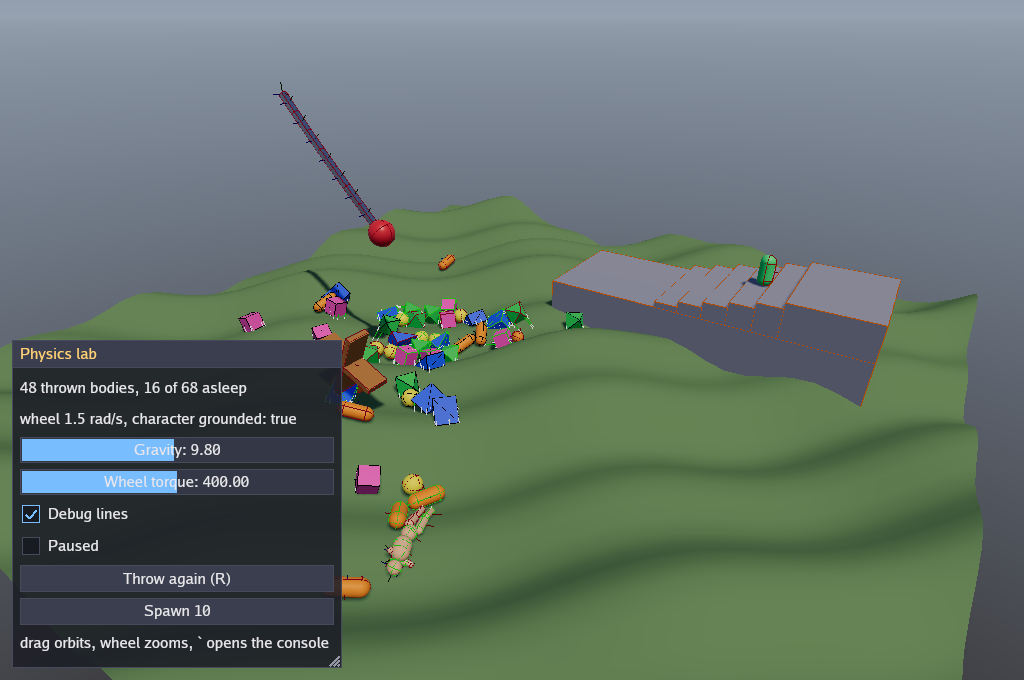
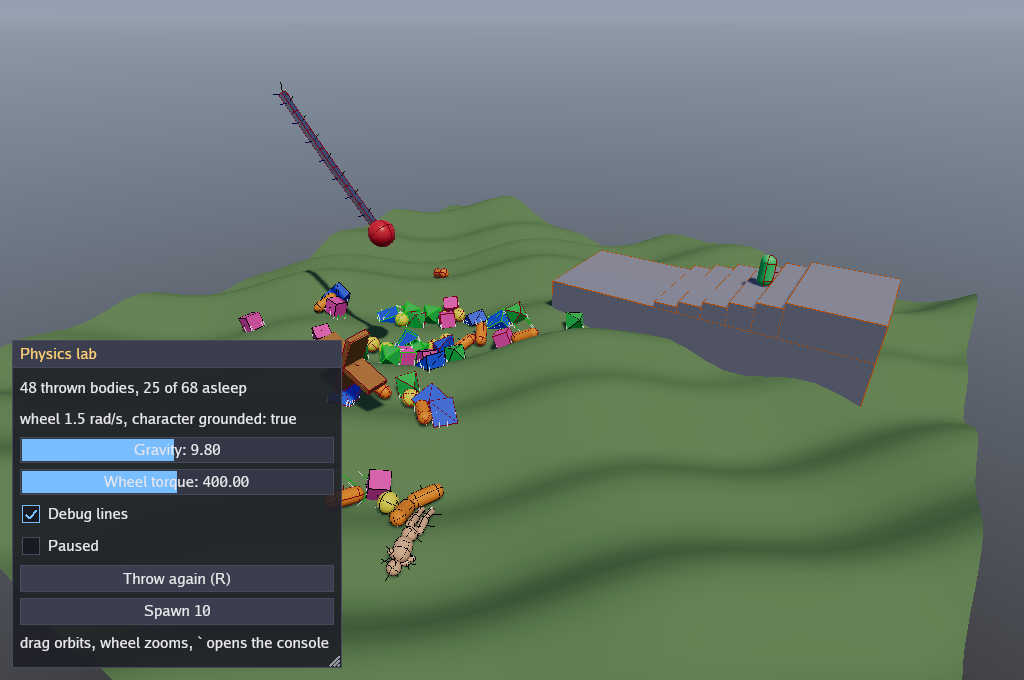
Make refresh_queries safe with later adds; size the softbody window
refresh_queries called detect_collisions, which consumed the modified
body list the physics pipeline needs to give new bodies an island, so a
later step panicked. It now runs the pipeline with a zero time step.

diff --git a/crates/yowie-phys/src/d2/world.rs b/crates/yowie-phys/src/d2/world.rs
@@ -183,6 +183,15 @@ impl World2D {
                 );
             }
         }
+        self.events.clear();
+        self.run_pipeline(dt);
+    }
+
+    /// Runs rapier's pipeline for `dt` seconds and appends the events it
+    /// produced. A zero `dt` applies the changes made since the last run
+    /// (added and removed bodies and colliders, moved bodies) and updates
+    /// collision detection without simulating.
+    fn run_pipeline(&mut self, dt: f32) {
         self.pw.integration_parameters.dt = dt;
         let (ctx, crx) = mpsc::channel();
         let (ftx, frx) = mpsc::channel();
@@ -190,7 +199,6 @@ impl World2D {
         let collector = ChannelEventCollector::new(ctx, ftx, stx);
         self.pw.step_with_events(&(), &collector);
         drop(collector);
-        self.events.clear();
         for ev in crx.try_iter() {
             self.push_collision_event(ev);
         }
@@ -231,10 +239,13 @@ impl World2D {
         self.events.push(event);
     }
 
-    /// Brings the query structures up to date with colliders added or moved
-    /// since the last step, without simulating.
+    /// Brings the query structures up to date with bodies and colliders
+    /// added, removed or moved since the last step, without simulating.
+    /// Any order of adding, removing, refreshing, querying and stepping is
+    /// valid. Events from the refresh are added to
+    /// [`events`](Self::events).
     pub fn refresh_queries(&mut self) {
-        self.pw.detect_collisions(&(), &());
+        self.run_pipeline(0.0);
     }
 
     /// Events produced by the last [`step`](Self::step).

diff --git a/crates/yowie-phys/src/d3/world.rs b/crates/yowie-phys/src/d3/world.rs
@@ -186,6 +186,15 @@ impl World3D {
                 );
             }
         }
+        self.events.clear();
+        self.run_pipeline(dt);
+    }
+
+    /// Runs rapier's pipeline for `dt` seconds and appends the events it
+    /// produced. A zero `dt` applies the changes made since the last run
+    /// (added and removed bodies and colliders, moved bodies) and updates
+    /// collision detection without simulating.
+    fn run_pipeline(&mut self, dt: f32) {
         self.pw.integration_parameters.dt = dt;
         let (ctx, crx) = mpsc::channel();
         let (ftx, frx) = mpsc::channel();
@@ -193,7 +202,6 @@ impl World3D {
         let collector = ChannelEventCollector::new(ctx, ftx, stx);
         self.pw.step_with_events(&(), &collector);
         drop(collector);
-        self.events.clear();
         for ev in crx.try_iter() {
             self.push_collision_event(ev);
         }
@@ -234,10 +242,13 @@ impl World3D {
         self.events.push(event);
     }
 
-    /// Brings the query structures up to date with colliders added or moved
-    /// since the last step, without simulating.
+    /// Brings the query structures up to date with bodies and colliders
+    /// added, removed or moved since the last step, without simulating.
+    /// Any order of adding, removing, refreshing, querying and stepping is
+    /// valid. Events from the refresh are added to
+    /// [`events`](Self::events).
     pub fn refresh_queries(&mut self) {
-        self.pw.detect_collisions(&(), &());
+        self.run_pipeline(0.0);
     }
 
     /// Events produced by the last [`step`](Self::step).

diff --git a/crates/yowie-phys/src/d3/tests.rs b/crates/yowie-phys/src/d3/tests.rs
@@ -412,3 +412,48 @@ fn debug_contacts_draw_extra_lines() {
         off.0
     );
 }
+
+#[test]
+fn refresh_queries_then_add_then_step_does_not_panic() {
+    let mut world = World3D::default();
+    ground(&mut world);
+    world.refresh_queries();
+    let a = ball3(&mut world, 3.0);
+    world.refresh_queries();
+    world.step(DT);
+    let b = ball3(&mut world, 5.0);
+    world.refresh_queries();
+    world.remove_body(a).unwrap();
+    world.refresh_queries();
+    let _ = world.ray_cast(
+        Vec3::new(0.0, 9.0, 0.0),
+        -Vec3::Y,
+        20.0,
+        &QueryFilter::new(),
+    );
+    run(&mut world, 120);
+    assert!(world.position(b).unwrap().y < 5.0);
+}
+
+fn ball3(world: &mut World3D, y: f32) -> crate::BodyId {
+    let id = world.add_body(&BodyDesc3D::dynamic().at(Vec3::new(0.0, y, 0.0)));
+    world
+        .add_collider(id, &ColliderDesc3D::new(Shape3D::sphere(0.5)))
+        .unwrap();
+    id
+}
+
+#[test]
+fn queries_after_removal_without_refresh_do_not_panic() {
+    let mut world = World3D::default();
+    ground(&mut world);
+    let a = ball3(&mut world, 3.0);
+    world.step(DT);
+    world.remove_body(a).unwrap();
+    let f = QueryFilter::new();
+    let _ = world.ray_cast(Vec3::new(0.0, 9.0, 0.0), -Vec3::Y, 20.0, &f);
+    let _ = world.overlap_point(Vec3::new(0.0, 3.0, 0.0), &f);
+    let b = ball3(&mut world, 4.0);
+    world.step(DT);
+    assert!(world.position(b).is_some());
+}

diff --git a/examples/softbody/scene.rs b/examples/softbody/scene.rs
@@ -69,10 +69,10 @@ impl SoftScene {
         let post = yowie::phys::ColliderDesc2D::new(Shape2D::circle(POST_RADIUS))
             .with_offset(Transform2D::from_position(post_centre()));
         world2.add_static_collider(&post)?;
-        // One step puts the static colliders into the query structures the
-        // soft solvers read.
-        world2.step(1.0 / 60.0);
-        world3.step(1.0 / 60.0);
+        // The soft solvers read the static colliders through the query
+        // structures, so bring those up to date.
+        world2.refresh_queries();
+        world3.refresh_queries();
 
         let (cloth, cloth_surface) = new_flag()?;
         let (jelly, jelly_surface) = new_jelly()?;

diff --git a/crates/yowie-phys/src/d2/tests.rs b/crates/yowie-phys/src/d2/tests.rs
@@ -325,3 +325,19 @@ fn ball_rolls_down_a_heightfield_slope() {
     let surface = 5.0 - (p.x + 10.0) / 20.0 * 5.0;
     assert!(p.y > surface - 0.05, "ball is under the surface: {p:?}");
 }
+
+#[test]
+fn refresh_queries_then_add_then_step_does_not_panic() {
+    let mut world = World2D::default();
+    ground(&mut world);
+    world.refresh_queries();
+    let a = ball(&mut world, 3.0, 0.5, 0.0);
+    world.refresh_queries();
+    world.step(DT);
+    let b = ball(&mut world, 5.0, 0.5, 0.0);
+    world.refresh_queries();
+    world.remove_body(a).unwrap();
+    world.refresh_queries();
+    run(&mut world, 120);
+    assert!(world.position(b).unwrap().y < 5.0);
+}

diff --git a/examples/physics_lab/lab.rs b/examples/physics_lab/lab.rs
@@ -147,9 +147,9 @@ impl Lab {
             },
             rng: Rng::new(5),
         };
-        // The character moves before the first update's step, so one step
-        // now puts the scenery into the query structures.
-        lab.world.step(1.0 / 60.0);
+        // The character moves before the first update's step, so the
+        // scenery must already be in the query structures.
+        lab.world.refresh_queries();
         lab.reset()?;
         Ok(lab)
     }

diff --git a/examples/softbody/main.rs b/examples/softbody/main.rs
@@ -55,7 +55,7 @@ impl Game for Softbody {
             jelly: Mesh::new(g, &sim.jelly_data)?,
             sim,
             orbit,
-            window: Rect::new(24.0, 520.0, 300.0, 160.0),
+            window: Rect::new(24.0, 480.0, 300.0, 200.0),
             press: Vec2::ZERO,
             kick_at: kick_arg(),
         })
